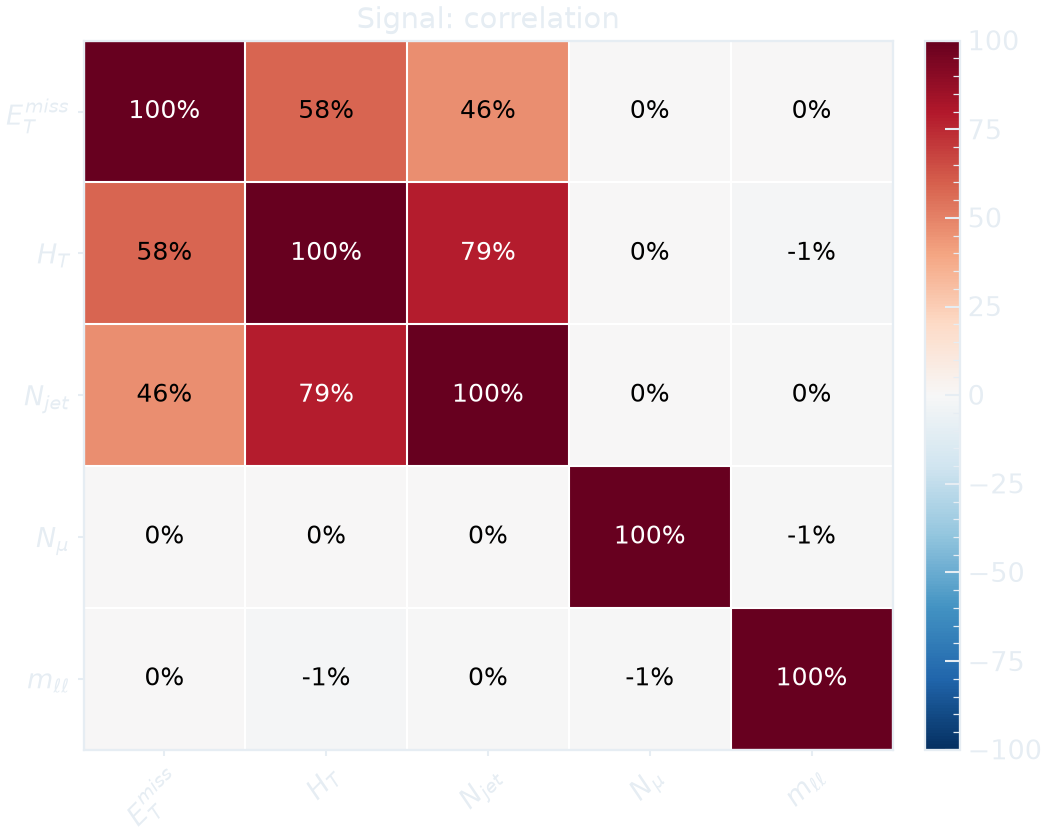
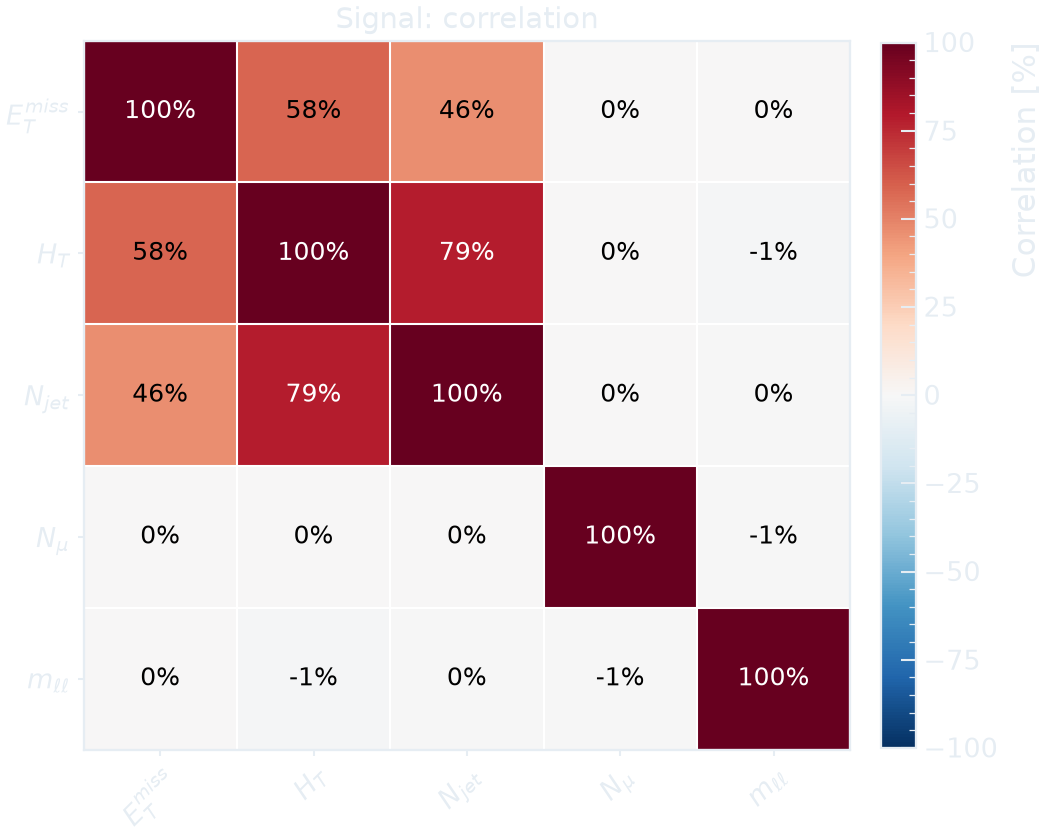
Add colour-bar label to correlation plots

diff --git a/examples/gallery/__init__.py b/examples/gallery/__init__.py
@@ -347,31 +347,28 @@ def arrays() -> rf.Plot:
 def hist2d(signal: rf.Sample, met: rf.Variable) -> rf.Plot:
     """``rf.plot2d`` fills a 2D histogram of one sample; both variables must have the same
     structure (both per-event here). ``logz`` and ``cmap`` control the colour scale."""
-    p = rf.plot2d(
+    return rf.plot2d(
         signal,
         rf.Variable("sum(Jet_pt)", bins=(40, 0, 800), label=r"$H_T$", unit="GeV"),
         met,
         selection="nJet >= 2",
         logz=True,
         cmap="magma",
+        zlabel="Events",
     )
-    p.fig.axes[-1].set_ylabel("")  # Omit the colour-bar title in this gallery layout.
-    return p
 
 
 @example("correlation", "A correlation matrix")
 def correlation(signal: rf.Sample) -> rf.Plot:
     """``rf.correlation`` computes the (weighted) linear correlation of several per-event
     quantities and draws it as an annotated matrix; ``percent=True`` labels cells in percent."""
-    p = rf.correlation(
+    return rf.correlation(
         signal,
         ["MET", "sum(Jet_pt)", "nJet", "nMuon", "m_ll"],
         labels=[r"$E_T^{miss}$", r"$H_T$", r"$N_{jet}$", r"$N_{\mu}$", r"$m_{\ell\ell}$"],
         percent=True,
         figsize=(7, 5.6),
     )
-    p.fig.axes[-1].set_ylabel("")  # Omit the colour-bar title in this gallery layout.
-    return p
 
 
 @example("luminosity", "Cross sections and a luminosity instead of hand-made scale factors")
